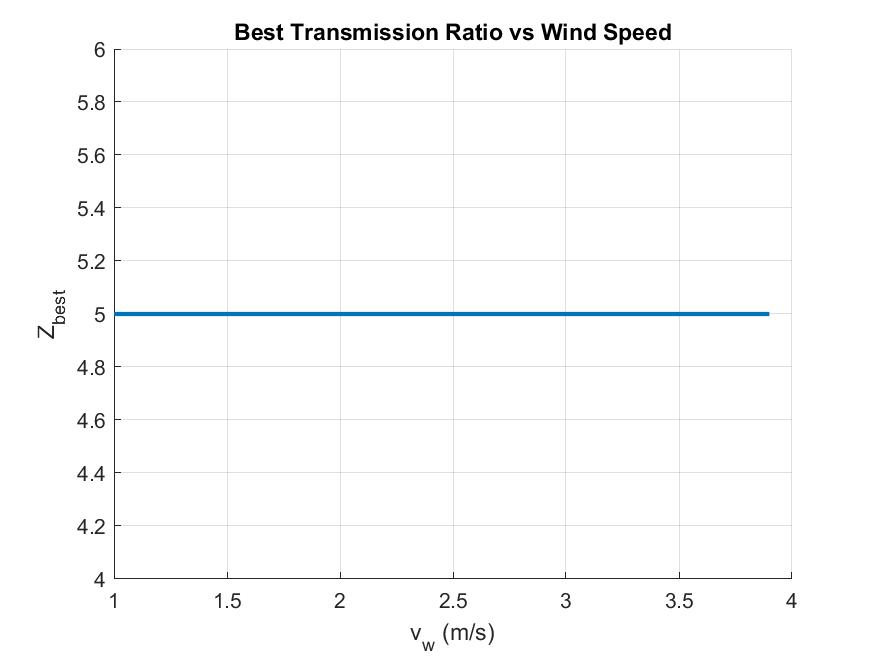
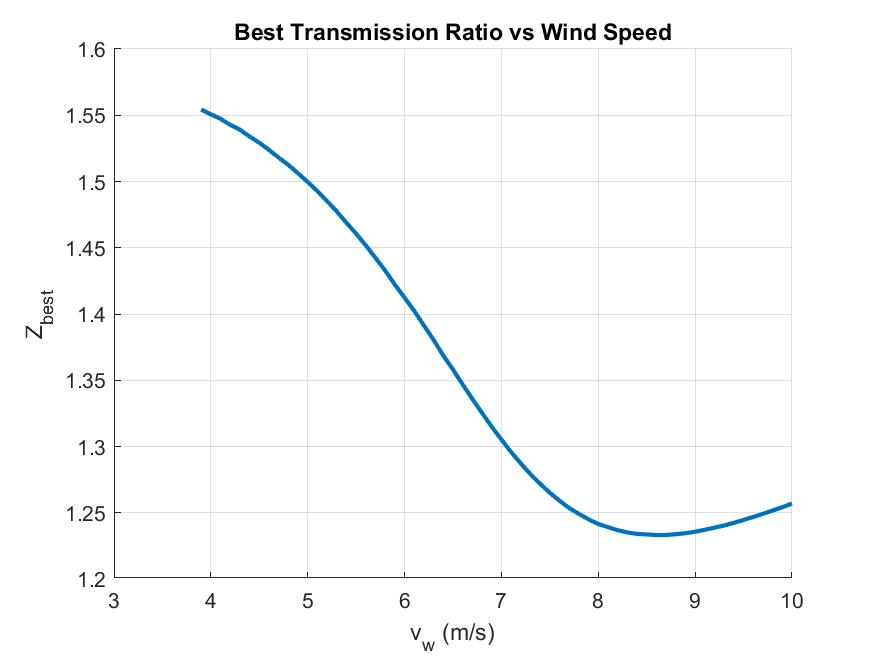
Average Drag Coefficient

diff --git a/DragForce.m b/DragForce.m
@@ -1,6 +1,5 @@
 function F_d = DragForce(fileID)
 	DragForces = [
-		0 0;
 		1 0.0056771236;
 		2 0.019862027;
 		3 0.044653886;
@@ -22,7 +21,9 @@ function F_d = DragForce(fileID)
 		19 1.5518665;
 		20 2.0525466
 	];
-	F_d = fit(DragForces(:, 1), DragForces(:, 2), 'poly9', 'Normalize', 'on');
+	c_d_data = DragForces(:, 2) ./ DragForces(:, 1).^2;
+	c_d = mean(c_d_data);
+	F_d = @(v_t) c_d*v_t.^2;
 	fprintf(fileID, 'Drag Root Mean Square Error: %e\n', sqrt(sum((F_d(DragForces(:, 1))-DragForces(:, 2)).^2))/size(DragForces, 1)/(max(DragForces(:, 1))-min(DragForces(:, 1))));
 	v_w_range = 0:0.1:max(DragForces(:, 1));
 	figure();

diff --git a/Main.m b/Main.m
@@ -22,9 +22,8 @@ F_d = DragForce(fileID);
 
 air = Air(5);
 [v_top, Z_best] = SearchTransmissionRatios(air, fan, 0.1:0.01:5, F_d);
-Z_best = 1.7;
 vehicle = Vehicle(air, fan, Z_best, F_d);
-v = Simulate(vehicle, 100);
+v = Simulate(vehicle, 40);
 [v_min, v_max] = vehicle.SpeedBoundary();
 fprintf(fileID, 'Z=%.2f v_top=%.1fm/s B=[%.1f, %.1f]m/s\n', Z_best, v_top, v_min, v_max);
 

diff --git a/Vehicle.m b/Vehicle.m
@@ -45,7 +45,7 @@ classdef Vehicle
 			F_q = self.mul_q*T_q;
 			F_c = self.mul_c*w_c;
 			F_k = self.mul_k*w_k;
-			F_d = self.F_d(v_t)';
+			F_d = self.F_d(v_t);
 			F_net = F_t-F_q-F_c-F_k-F_d;
 			a = F_net*self.mul_a;
 		end
